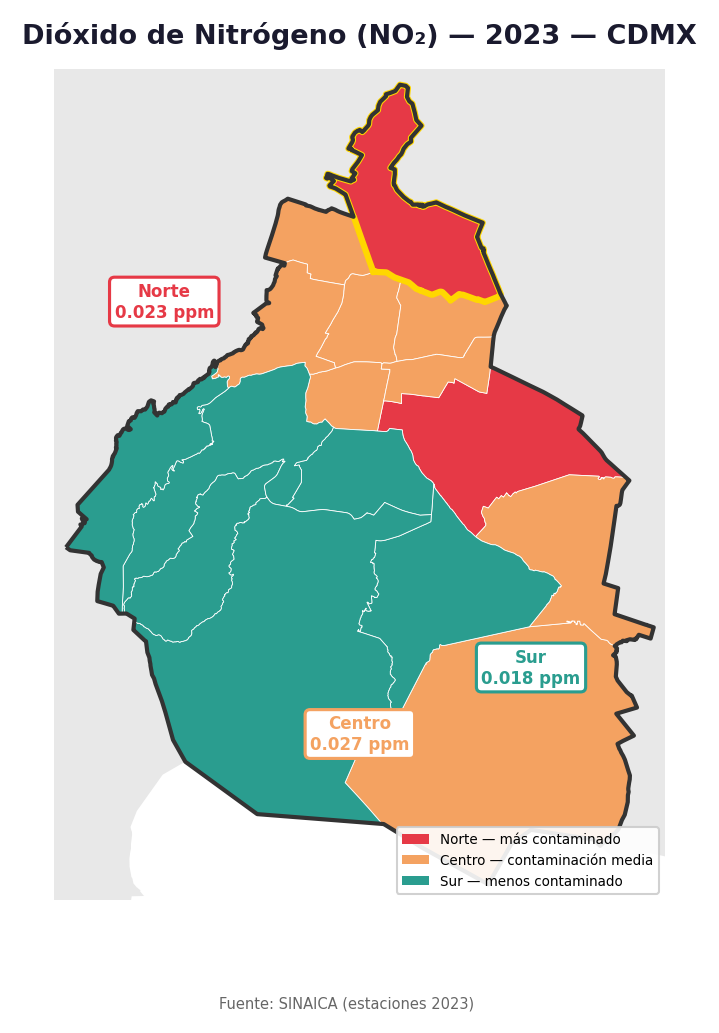
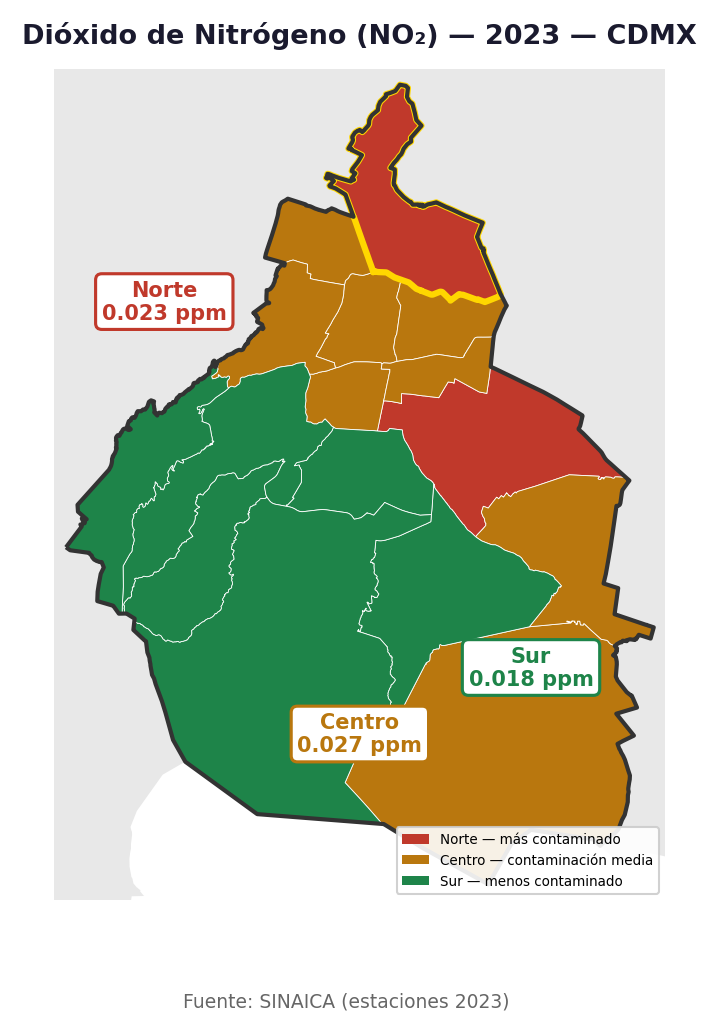
fix(charts): read the series from the data, drop zero-contaminated stations
Two of the five charts carried hardcoded lists. The NDVI one showed a clean
north-south gradient (0.12 / 0.20 / 0.33) that the data does not contain: the
centre is the LEAST green zone (0.115), below the north (0.144). Both charts now
read per-zone mean and std from municipio_completo.csv, and the r = -0.829
annotation baked into the NDVI chart is replaced by the verifiable
municipality-level -0.936.

Layout: CHART_FIG_SIZE goes from (7.2, 7.2) to (7.8, 4.0). A three-bar chart in a
square canvas spends most of its area on margin, and the dashboard renders it at
under half its native width -- a 945x1059 image scaled into a ~400px column
shrinks its baked-in 8pt labels to roughly 3.4pt effective. That is the 'not
responsive' problem: text inside a raster cannot reflow. Fonts are bumped
(titles 13->15, ticks 8->10, annotations 8->13), the value label now sits ABOVE
the error bar instead of on top of it, and the zonal x labels are single-line so
the credit line stops colliding with them.

Colours: COLORS and CHART_COLORS were #E63946 / #F4A261 / #2A9D8F, too light to
carry white text, and did not match dashboards/app.py. Both now use
#C0392B / #B9770E / #1E8449.

Two bugs found on the way:

  - the three chart functions each carried their own station -> zone dict listing
    13 of the 20 stations, so any other station mapped to NaN and the charts died
    with 'KeyError: nan'. They now use STATIONS_META from src/stations.py, which
[…]

diff --git a/scripts/export_maps.py b/scripts/export_maps.py
@@ -74,7 +74,9 @@ ZONA_INCIDENCIA = frozenset({"Ecatepec de Morelos", "Gustavo A. Madero", "Nezahu
 INC_EC = "#FFD700"
 INC_LW = 3.0
 
-COLORS = {"norte": "#E63946", "centro": "#F4A261", "sur": "#2A9D8F", "periferia": "#8B8B8B"}
+# Shared with dashboards/app.py. The earlier palette (#E63946 / #F4A261 / #2A9D8F)
+# was too light to carry white text on top of the fills.
+COLORS = {"norte": "#C0392B", "centro": "#B9770E", "sur": "#1E8449", "periferia": "#8B8B8B"}
 ZONE_LABELS = {"norte": "Norte (nororiente)", "centro": "Centro (CDMX)", "sur": "Sur (referencia)", "periferia": "Periferia (EdoMex)"}
 INC_LABELS = {**ZONE_LABELS, "norte": "Incidencia"}
 
@@ -262,7 +264,7 @@ def _style_map_ax(ax, title):
 
 
 def _add_anno(ax, text, x, y, color):
-    ax.text(x, y, text, transform=ax.transAxes, fontsize=8,
+    ax.text(x, y, text, transform=ax.transAxes, fontsize=10,
             fontweight="bold", color=color, ha="center", va="center",
             bbox=dict(boxstyle="round,pad=0.3", facecolor="white",
                       edgecolor=color, linewidth=1.5))
@@ -287,7 +289,7 @@ def _save(fig, name):
 
 
 def _credit(fig, text=None):
-    fig.text(0.5, 0.008, text or CREDIT, ha="center", va="bottom", fontsize=7, color="#666666")
+    fig.text(0.5, 0.008, text or CREDIT, ha="center", va="bottom", fontsize=9, color="#666666")
 
 
 # ---------------------------------------------------------------------------
@@ -349,10 +351,11 @@ def plot_ndvi(mun_gdf, state_bg, sub_region="zmvm"):
     }.items():
         if zone in present:
             _add_anno(ax, text, x, y, COLORS[zone])
-    ax.text(0.05, 0.05,
-            "Correlación LST–NDVI: r = –0.829\nA más vegetación, menor temperatura",
+    ax.text(0.03, 0.04,
+            "LST–NDVI a nivel municipio: r = –0.936 (n = 21)\n"
+            "A más vegetación, menor temperatura",
             transform=ax.transAxes, ha="left", va="bottom",
-            fontsize=7.5, color="#555555",
+            fontsize=9, color="#555555",
             bbox=dict(boxstyle="round,pad=0.3", facecolor="#f8f8f8",
                       edgecolor="#dddddd", linewidth=0.5))
     _style_map_ax(ax, f"Índice de Vegetación (NDVI) — Verano 2025 — {REGION_TITLES[sub_region]}")
@@ -441,7 +444,7 @@ def plot_marginacion(mun_gdf, state_bg, sub_region="zmvm"):
     if sub_region == "edomex":
         _zoom_edomex(ax)
         inc_patch = Patch(facecolor="#fffbe6", edgecolor=INC_EC, linewidth=2, label="Zona de incidencia")
-        ax.legend(handles=[inc_patch], fontsize=7, loc="upper right", framealpha=0.9)
+        ax.legend(handles=[inc_patch], fontsize=9, loc="upper right", framealpha=0.9)
     _style_map_ax(ax, f"Marginación (CONAPO IM_2020)\nPromedio por Municipio — {REGION_TITLES[sub_region]}")
     _credit(fig, "Fuente: CONAPO (Índice de Marginación 2020)")
     _save(fig, f"marginacion_{REGION_FILES[sub_region]}.png")
@@ -484,10 +487,22 @@ def plot_areas_verdes(mun_gdf, state_bg, sub_region="zmvm"):
 # Bar/column charts (kept from original version for data comparison)
 # ---------------------------------------------------------------------------
 
-CHART_COLORS = {"norte": "#E63946", "centro": "#F4A261", "sur": "#2A9D8F"}
+CHART_COLORS = {"norte": "#C0392B", "centro": "#B9770E", "sur": "#1E8449"}
 CHART_LABELS = {"norte": "Norte", "centro": "Centro", "sur": "Sur"}
-CHART_FIG_SIZE = (7.2, 7.2)
+# Wide rather than square. A three-bar chart in a 1:1 canvas spends most of the
+# area on margin, and the dashboard then renders it at under half its native
+# width, shrinking the text baked into the PNG by the same factor.
+CHART_FIG_SIZE = (7.8, 4.0)
 CHART_CREDIT = "Fuente: Landsat 8-9 / Sentinel-5P / SINAICA / CONAPO"
+
+
+# Station -> zone comes from src/stations.py, which declares itself the single
+# source of truth for station metadata. The three chart functions below used to
+# each carry their own copy that listed only 13 of the 20 stations, so any
+# station outside it mapped to NaN and the charts died with "KeyError: nan".
+from src.stations import STATIONS_META  # noqa: E402
+
+ST_META = {name: meta["zone"] for name, meta in STATIONS_META.items()}
 
 
 def _chart_legend():
@@ -499,63 +514,80 @@ def _chart_legend():
 
 
 def _chart_style(ax, title, ylabel=""):
-    ax.set_title(title, fontsize=13, fontweight="bold", color=TITLE_COLOR, pad=12)
-    ax.set_ylabel(ylabel, fontsize=9, color="#444444")
-    ax.tick_params(axis="x", labelsize=8)
-    ax.tick_params(axis="y", labelsize=8)
+    ax.set_title(title, fontsize=15, fontweight="bold", color=TITLE_COLOR, pad=12)
+    ax.set_ylabel(ylabel, fontsize=11, color="#444444")
+    ax.tick_params(axis="x", labelsize=10)
+    ax.tick_params(axis="y", labelsize=10)
     ax.spines["top"].set_visible(False)
     ax.spines["right"].set_visible(False)
 
 
-def plot_lst_chart():
-    zones = ["Norte\n(nororiente)", "Centro", "Sur\n(referencia)"]
-    values = [37.5, 34.0, 28.5]
-    colors = [CHART_COLORS["norte"], CHART_COLORS["centro"], CHART_COLORS["sur"]]
-    err = [2.5, 2.0, 2.0]
+ZONE_KEYS = ["norte", "centro", "sur"]
+# Single-line labels: the credit line at the bottom of the figure collided
+# with the wrapped "Norte (nororiente)" tick label.
+ZONE_TITLES = ["Norte", "Centro", "Sur"]
+
+
+def _zone_means(column):
+    """Per-zone mean and sample std, from the table notebook 07 exports.
+
+    These two charts used to carry hardcoded lists. The NDVI one showed a clean
+    north-south gradient (0.12 / 0.20 / 0.33) that the data does not contain:
+    the centre is the LEAST green zone (0.115), below the north (0.144).
+    """
+    df = pd.read_csv(PROJ / "dashboards" / "data" / "municipio_completo.csv")
+    grouped = df.groupby("zona")[column]
+    order = ["Norte", "Centro", "Sur"]
+    return grouped.mean().reindex(order), grouped.std().reindex(order)
+
+
+def _plot_zone_bars(column, title, ylabel, label_fmt, label_pad):
+    means, stds = _zone_means(column)
+    values = means.tolist()
+    err = stds.tolist()
+    colors = [CHART_COLORS[k] for k in ZONE_KEYS]
 
     fig, ax = plt.subplots(figsize=CHART_FIG_SIZE)
-    bars = ax.bar(zones, values, color=colors, width=0.55,
+    bars = ax.bar(ZONE_TITLES, values, color=colors, width=0.5,
                   yerr=err, capsize=6, edgecolor="white", linewidth=1.2)
-    for bar, v in zip(bars, values):
-        ax.text(bar.get_x() + bar.get_width() / 2, bar.get_height() + 1.2,
-                f"{v:.0f}°C", ha="center", fontsize=11, fontweight="bold", color=TITLE_COLOR)
-    _chart_style(ax, "Temperatura superficial (LST)\nVerano 2025", "°C")
-    ax.set_ylim(0, 48)
-    fig.text(0.5, 0.01, "Fuente: Landsat 8-9, Google Earth Engine", ha="center", va="bottom", fontsize=7, color="#666666")
+    # The label goes ABOVE the error bar. Placing it at bar height + a constant
+    # put the number on top of the whisker, which is what made it unreadable.
+    for bar, v, e in zip(bars, values, err):
+        ax.text(bar.get_x() + bar.get_width() / 2, v + e + label_pad,
+                label_fmt.format(v), ha="center", fontsize=13,
+                fontweight="bold", color=TITLE_COLOR)
+    _chart_style(ax, title, ylabel)
+    ax.set_ylim(0, max(v + e for v, e in zip(values, err)) * 1.30)
+    fig.text(0.5, 0.01, CHART_CREDIT, ha="center", va="bottom",
+             fontsize=9, color="#666666")
+    return fig
+
+
+def plot_lst_chart():
+    fig = _plot_zone_bars(
+        "lst_mean",
+        "Temperatura superficial por zona\nLandsat 8/9 · 2025–2026",
+        "°C", "{:.1f} °C", 1.4,
+    )
     _save(fig, "lst_chart_zmvm.png")
 
 
 def plot_ndvi_chart():
-    zones = ["Norte\n(nororiente)", "Centro", "Sur\n(referencia)"]
-    values = [0.12, 0.20, 0.33]
-    colors = [CHART_COLORS["norte"], CHART_COLORS["centro"], CHART_COLORS["sur"]]
-
-    fig, ax = plt.subplots(figsize=CHART_FIG_SIZE)
-    bars = ax.bar(zones, values, color=colors, width=0.55, edgecolor="white", linewidth=1.2)
-    for bar, v in zip(bars, values):
-        ax.text(bar.get_x() + bar.get_width() / 2, bar.get_height() + 0.008,
-                f"{v:.2f}", ha="center", fontsize=11, fontweight="bold", color=TITLE_COLOR)
-    _chart_style(ax, "Índice de Vegetación (NDVI)\nVerano 2025", "NDVI")
-    ax.set_ylim(0, 0.42)
-    ax.text(0.95, 0.05,
-            "Correlación LST–NDVI: r = –0.829\nA más vegetación, menor temperatura",
-            transform=ax.transAxes, ha="right", va="bottom",
-            fontsize=7.5, color="#555555",
-            bbox=dict(boxstyle="round,pad=0.3", facecolor="#f8f8f8",
-                      edgecolor="#dddddd", linewidth=0.5))
-    fig.text(0.5, 0.01, "Fuente: Landsat 8-9, Google Earth Engine", ha="center", va="bottom", fontsize=7, color="#666666")
+    fig = _plot_zone_bars(
+        "ndvi_mean",
+        "Índice de vegetación por zona\nLandsat 8/9 · 2025–2026",
+        "NDVI", "{:.3f}", 0.018,
+    )
     _save(fig, "ndvi_chart_zmvm.png")
 
 
 def plot_no2_chart():
     st = pd.read_csv(DATA / "processed" / "ground_stations_annual_2023.csv")
-    ST_META = {
-        "Nezahualcoyotl": "norte", "GAM": "norte", "Iztapalapa": "norte",
-        "Ecatepec": "norte", "Tlalnepantla": "norte", "Naucalpan": "norte",
-        "Centro": "centro", "Benito Juárez": "centro", "Hospital General": "centro",
-        "Pedregal": "sur", "CCA": "sur", "UAM Xochimilco": "sur", "Ajusco Medio": "sur",
-    }
-    no2 = st[(st["pollutant"] == "NO2") & (st["annual_mean"] > 0)].copy()
+    # A station whose 75th percentile is zero is not reporting: zeros are being
+    # counted as valid readings. Keeping those rows drags the annual mean to ~0
+    # and puts a meaningless "0.0" bar in the chart.
+    no2 = st[(st["pollutant"] == "NO2") & (st["annual_mean"] > 0)
+             & (st["p75"] > 0)].copy()
     no2["zone"] = no2["station_name"].map(ST_META)
     no2 = no2.sort_values("annual_mean")
 
@@ -566,11 +598,12 @@ def plot_no2_chart():
     ax.barh(names, vals, color=colors_bar, height=0.65, edgecolor="white", linewidth=0.8)
     for bar, v in zip(ax.containers[0], vals):
         ax.text(bar.get_width() + 0.0003, bar.get_y() + bar.get_height() / 2,
-                f"{v:.3f}", va="center", fontsize=7.5, color="#444444")
+                f"{v:.3f}", va="center", fontsize=10, color="#444444")
     _chart_style(ax, "Dióxido de Nitrógeno (NO₂)\nEstaciones SINAICA 2023", "ppm")
-    ax.set_xlabel("NO₂ (ppm)", fontsize=9, color="#444444")
-    ax.legend(handles=_chart_legend(), fontsize=8, loc="lower right")
-    fig.text(0.5, 0.01, "Fuente: SINAICA (estaciones 2023)", ha="center", va="bottom", fontsize=7, color="#666666")
+    ax.set_xlabel("NO₂ (ppm)", fontsize=11, color="#444444")
+    ax.legend(handles=_chart_legend(), fontsize=10, loc="lower right")
+    fig.subplots_adjust(bottom=0.22)
+    fig.text(0.5, 0.01, "Fuente: SINAICA (estaciones 2023)", ha="center", va="bottom", fontsize=9, color="#666666")
     _save(fig, "no2_chart_zmvm.png")
 
 
@@ -580,13 +613,11 @@ def plot_no2_chart():
 
 def plot_pm_chart():
     st = pd.read_csv(DATA / "processed" / "ground_stations_annual_2023.csv")
-    ST_META = {
-        "Nezahualcoyotl": "norte", "GAM": "norte", "Iztapalapa": "norte",
-        "Ecatepec": "norte", "Tlalnepantla": "norte", "Naucalpan": "norte",
-        "Centro": "centro", "Benito Juárez": "centro", "Hospital General": "centro",
-        "Pedregal": "sur", "CCA": "sur", "UAM Xochimilco": "sur", "Ajusco Medio": "sur",
-    }
-    pm = st[(st["pollutant"] == "PM2.5") & (st["annual_mean"] > 0)].copy()
+    # A station whose 75th percentile is zero is not reporting: zeros are being
+    # counted as valid readings. Keeping those rows drags the annual mean to ~0
+    # and puts a meaningless "0.0" bar in the chart.
+    pm = st[(st["pollutant"] == "PM2.5") & (st["annual_mean"] > 0)
+            & (st["p75"] > 0)].copy()
     pm["zone"] = pm["station_name"].map(ST_META)
     pm = pm.sort_values("annual_mean")
 
@@ -597,26 +628,25 @@ def plot_pm_chart():
     ax.barh(names, vals, color=colors_bar, height=0.65, edgecolor="white", linewidth=0.8)
     for bar, v in zip(ax.containers[0], vals):
         ax.text(bar.get_width() + 0.3, bar.get_y() + bar.get_height() / 2,
-                f"{v:.1f}", va="center", fontsize=7.5, color="#444444")
+                f"{v:.1f}", va="center", fontsize=10, color="#444444")
     ax.axvline(5, color="#c0392b", linestyle="--", linewidth=2, alpha=0.7)
-    ax.text(5.2, -0.6, "WHO (5 µg/m³)", fontsize=7.5, color="#c0392b")
+    ax.text(5.2, -0.6, "WHO (5 µg/m³)", fontsize=9, color="#c0392b")
     _chart_style(ax, "Partículas finas (PM₂.₅)\nEstaciones SINAICA 2023", "µg/m³")
-    ax.set_xlabel("µg/m³", fontsize=9, color="#444444")
+    ax.set_xlabel("µg/m³", fontsize=11, color="#444444")
     ax.set_xlim(0, max(vals) * 1.25)
-    ax.legend(handles=_chart_legend(), fontsize=8, loc="lower right")
-    fig.text(0.5, 0.01, "Fuente: SINAICA / RAMA (estaciones 2023)", ha="center", va="bottom", fontsize=7, color="#666666")
+    ax.legend(handles=_chart_legend(), fontsize=10, loc="lower right")
+    fig.subplots_adjust(bottom=0.22)
+    fig.text(0.5, 0.01, "Fuente: SINAICA / RAMA (estaciones 2023)", ha="center", va="bottom", fontsize=9, color="#666666")
     _save(fig, "pm_chart_zmvm.png")
 
 
 def plot_pm10_chart():
     st = pd.read_csv(DATA / "processed" / "ground_stations_annual_2023.csv")
-    ST_META = {
-        "Nezahualcoyotl": "norte", "GAM": "norte", "Iztapalapa": "norte",
-        "Ecatepec": "norte", "Tlalnepantla": "norte", "Naucalpan": "norte",
-        "Centro": "centro", "Benito Juárez": "centro", "Hospital General": "centro",
-        "Pedregal": "sur", "CCA": "sur", "UAM Xochimilco": "sur", "Ajusco Medio": "sur",
-    }
-    pm = st[(st["pollutant"] == "PM10") & (st["annual_mean"] > 0)].copy()
+    # A station whose 75th percentile is zero is not reporting: zeros are being
+    # counted as valid readings. Keeping those rows drags the annual mean to ~0
+    # and puts a meaningless "0.0" bar in the chart.
+    pm = st[(st["pollutant"] == "PM10") & (st["annual_mean"] > 0)
+            & (st["p75"] > 0)].copy()
     pm["zone"] = pm["station_name"].map(ST_META)
     pm = pm.sort_values("annual_mean")
 
@@ -627,14 +657,15 @@ def plot_pm10_chart():
     ax.barh(names, vals, color=colors_bar, height=0.65, edgecolor="white", linewidth=0.8)
     for bar, v in zip(ax.containers[0], vals):
         ax.text(bar.get_width() + 0.3, bar.get_y() + bar.get_height() / 2,
-                f"{v:.1f}", va="center", fontsize=7.5, color="#444444")
+                f"{v:.1f}", va="center", fontsize=10, color="#444444")
     ax.axvline(15, color="#c0392b", linestyle="--", linewidth=2, alpha=0.7)
-    ax.text(15.2, -0.6, "WHO (15 µg/m³)", fontsize=7.5, color="#c0392b")
+    ax.text(15.2, -0.6, "WHO (15 µg/m³)", fontsize=9, color="#c0392b")
     _chart_style(ax, "Partículas (PM₁₀)\nEstaciones SINAICA 2023", "µg/m³")
-    ax.set_xlabel("µg/m³", fontsize=9, color="#444444")
+    ax.set_xlabel("µg/m³", fontsize=11, color="#444444")
     ax.set_xlim(0, max(vals) * 1.25)
-    ax.legend(handles=_chart_legend(), fontsize=8, loc="lower right")
-    fig.text(0.5, 0.01, "Fuente: SINAICA / RAMA (estaciones 2023)", ha="center", va="bottom", fontsize=7, color="#666666")
+    ax.legend(handles=_chart_legend(), fontsize=10, loc="lower right")
+    fig.subplots_adjust(bottom=0.22)
+    fig.text(0.5, 0.01, "Fuente: SINAICA / RAMA (estaciones 2023)", ha="center", va="bottom", fontsize=9, color="#666666")
     _save(fig, "pm10_chart_zmvm.png")
 
 
@@ -749,7 +780,7 @@ def _surface_map(mun_gdf, state_bg, pollutant):
         0.97, -0.02,
         f"Línea base OMS\n{label}: {who_limit} {unit}/año",
         transform=ax.transAxes, ha="right", va="top",
-        fontsize=8, color="#c0392b",
+        fontsize=9, color="#c0392b",
         bbox=dict(boxstyle="round,pad=0.35", facecolor="white",
                   edgecolor="#c0392b", linewidth=1.5),
     )

diff --git a/dashboards/app.py b/dashboards/app.py
@@ -215,8 +215,9 @@ st.image(
 
 st.image(
     str(MAPAS / "pm_chart_zmvm.png"),
-    caption="Material particulado PM₂.₅ en estaciones SINAICA. Las diferencias entre zonas son "
-    "modestas: Norte 18.9, Centro 17.9, Sur 16.9 µg/m³.",
+    caption="PM₂.₅ en las estaciones SINAICA que reportan datos. Todas superan el límite "
+    "anual de la OMS de 5 µg/m³. Varias estaciones del registro original reportan 0.000 en "
+    "más de la mitad del año: ver la sección 6.",
     width="stretch",
 )
 
@@ -426,7 +427,13 @@ st.markdown(
        es de 15,887 por 100 mil (15.9 %), demasiado alta para egresos hospitalarios en un año.
        J00–J99 incluye el resfrío común, así que la fuente puede estar contando consultas.
        Las correlaciones no dependen de que el nivel sea correcto; las cifras de nivel, sí.
-    6. **La encuesta es un piloto.** 34 respuestas en 16 municipios, mediana de 2 por municipio.
+    6. **El registro de PM arrastra ceros que no son mediciones.** 31 de las 60 filas
+       estación-contaminante tienen media anual por debajo de 0.5 µg/m³, con mediana y
+       percentil 75 en 0.000 pero miles de observaciones contadas como válidas. Tláhuac,
+       Naucalpan y Ecatepec reportan media anual 0.000. Cualquier promedio que los incluya
+       queda sesgado hacia abajo, y los promedios por municipio del repositorio todavía los
+       incluyen: las cifras de PM por zona no son confiables hasta corregirlo.
+    7. **La encuesta es un piloto.** 34 respuestas en 16 municipios, mediana de 2 por municipio.
        No es representativa y ningún resultado cuantitativo de esta página se apoya en ella.
     """
 )
